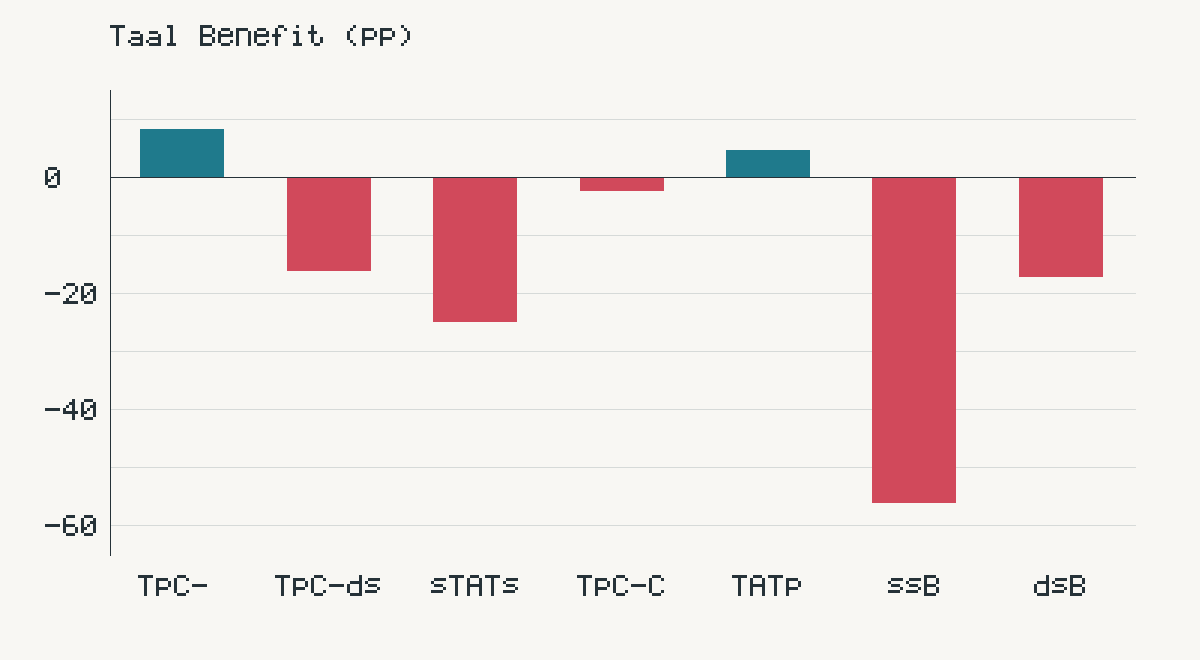
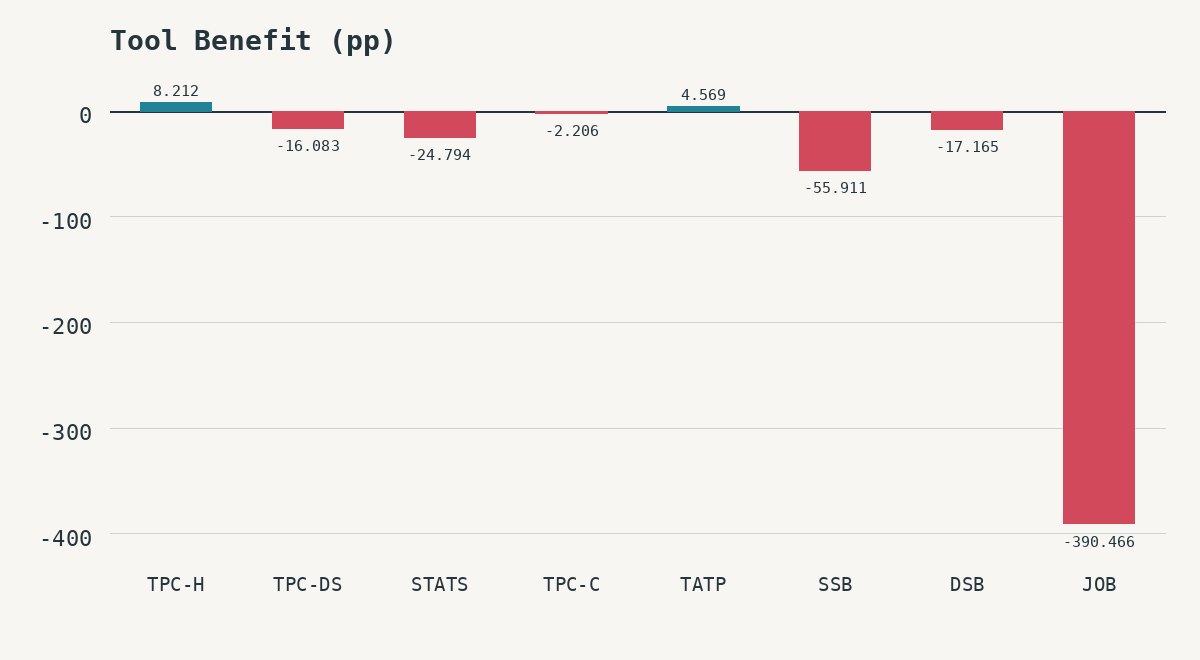
Update TPC-C provenance and add JOB analysis

diff --git a/combined/open_questions.md b/combined/open_questions.md
@@ -5,25 +5,27 @@
 | TPC-H | +8.212 | High | Complete aligned files and a clear B win on 19/22 queries; no unresolved provenance red flag identified. |
 | TPC-DS | -16.083 | High | Baseline and B were corrected together in `dcb29e6`, with aligned numeric timings; the negative result is not based on the known stale baseline. |
 | STATS | -24.794 | Medium | A/B/baseline were cleanly remeasured together, but the mean is strongly outlier-sensitive and cache state is not recorded. |
-| TPC-C | -2.206 | Low | Result files predate the current canonical inputs, and Q12 dominates the tiny 12-query workload despite the documented clean-run protocol. |
+| TPC-C | -2.206 | High | Commit `56179e1` contains baseline, Condition A, and Condition B results together; its TPC-C schema/workload inputs match the current files byte-for-byte, and the only later loader changes are connection configuration. Q12 still dominates the tiny 12-query workload, but the result's input provenance is confirmed. |
 | TATP | +4.569 | Medium | Measured inputs match the current canonical inputs and B improves 10/12 queries, but Q10/Q12 drive 44.5% of baseline time and cache state is unrecorded. |
 | SSB | -55.911 | High | Baseline/A/B were committed together, baseline values are plausible without a dominant outlier, and B regresses across 8/13 queries. |
 | DSB | -17.165 | Medium | Files were committed together and B regresses on 11/53 queries, but Q37 and Q48 materially dominate the arithmetic mean. |
+| JOB | -390.466 | Medium | Baseline/A/B were updated together in `93e004e`, and the accompanying summary documents a clean median-of-7 redo; however, query 28a dominates the baseline mean and the aggregate remains strongly outlier-sensitive. |
 
 # Open Questions and Data Caveats
 
-- JOB is not analyzable as a three-condition benchmark. `results/sylfhen/JOB/condition_b_results.csv` is missing on both `louis`/`main` and `origin/sylfhen-condition-a`. Baseline and Condition A have 113 aligned query IDs, but no B values exist.
-- The seven included triplets have populated, numeric timing columns and matching query ID sets. Some non-timing fields contain nulls or timeout/error text, so calculations use only the timing columns and do not treat metadata as a measurement.
+- JOB now has a complete, aligned three-condition dataset with 113 rows. The full-file scan found no row matching both `rows=0` and `cost=0.00..0.00`; 12 of 14 accepted indexes have finite numeric costs in matching proposed tool-log entries, with two exceptions (`cast_info(person_id, role_id, movie_id)` and `cast_info(movie_id, role_id)`) having no matching proposed entry. Its baseline, Condition A, and Condition B outputs were updated together in commit `93e004e`, whose accompanying summary documents a clean-database redo with one consistent session/cache state and median-of-7 measurements.
+- The eight included triplets have populated, numeric timing columns and matching query ID sets. Some non-timing fields contain nulls or timeout/error text, so calculations use only the timing columns and do not treat metadata as a measurement.
 - Timeout policy is not represented as a dedicated column in these CSVs. The repository contains timeout/error handling in runner code and result metadata, but the historical outputs do not provide one uniform, machine-readable timeout policy for every benchmark. Exact cross-benchmark timeout comparability therefore remains uncertain.
-- Git history provides useful chronology but not proof of identical database snapshots. TPC-DS baseline and Condition B were corrected together in commit `dcb29e6`; STATS baseline/A/B were remeasured together in `800e922`. Older TPC-H, TPC-C, TATP, SSB, and DSB files were committed in separate benchmark-specific runs, so snapshot equivalence is not independently established here.
+- Git history provides useful chronology but not proof of identical database snapshots. TPC-DS baseline and Condition B were corrected together in commit `dcb29e6`; STATS baseline/A/B were remeasured together in `800e922`. TPC-C is independently verified: commit `56179e1` contains all three result sets and its historical schema/workload inputs are byte-identical to the current files. Older TPC-H, TATP, SSB, and DSB files were committed in separate benchmark-specific runs, so snapshot equivalence is not independently established here.
 - The aggregate uses the arithmetic mean of per-query execution times. This is a judgment call because the result files do not consistently document whether timing values are single runs, medians, or repeated-run summaries. The STATS summary explicitly describes clean median-of-7 remeasurement; other benchmarks may use different protocols.
-- The chart contains seven bars, not eight, because assigning a Tool Benefit to JOB would require inventing missing Condition B data.
+- The chart contains eight bars now that JOB has approved, populated Condition B data.
 - SSB has no single dominant baseline outlier: its baseline range is 2766.376-6783.610 ms, and B regresses on 8/13 queries. Its negative aggregate B result is therefore not explained only by one suspiciously tiny or huge baseline value.
 - DSB is outlier-sensitive. Baseline Q37 is 359092.554 ms and Q48 is 69698.8 ms; excluding those two baseline-largest queries changes the baseline/A/B means from 9742.138/8438.581/10110.858 ms to 1716.510/377.039/665.051 ms. B still trails A, but the full-workload mean is materially shaped by these queries. B improves 42/53 queries and regresses 11/53, so the negative mean is driven by a smaller set of large regressions.
-- TPC-C is also outlier-sensitive: Q12 is 197.992 ms while the other 11 baseline queries are at most 0.252 ms. The summary documents standard one-warehouse scale and median-of-7 runs after warm-up on freshly reset databases, so the near-zero point-lookups are plausible for this small OLTP workload rather than the TPC-DS stale-baseline signature. However, the measured result files date to Aug 4, while the current canonical schema/workload files were added Aug 15; exact input identity cannot be proven from Git. Treat the -2.206 pp B-vs-A result as low-confidence and do not headline it as evidence that tool access hurt performance.
-- Across complete schemas, strict per-query counts (improved / regressed / tied versus baseline) are: TPC-H A 11/11/0, B 19/3/0; TPC-DS A 74/22/3, B 65/31/3; STATS A 57/89/0, B 52/94/0; TPC-C A 6/3/3, B 6/3/3; TATP A 9/2/1, B 10/2/0; SSB A 11/2/0, B 5/8/0; DSB A 49/4/0, B 42/11/0. These counts should accompany the arithmetic means because means can be dominated by one or two expensive queries.
+- TPC-C is outlier-sensitive: Q12 is 197.992 ms while the other 11 baseline queries are at most 0.252 ms. The summary documents standard one-warehouse scale and median-of-7 runs after warm-up on freshly reset databases, so the near-zero point-lookups are plausible for this small OLTP workload rather than the TPC-DS stale-baseline signature. Independent verification confirms that `56179e1` contains the baseline, Condition A, and Condition B results together; its `tpcc_schema.sql`, `tpcc_workload.csv`, `tpcc_workload.json`, and `tpcc_schema_workload.json` are byte-identical to the current files. The only post-commit loader changes are connection configuration (`PGUSER`, `PGPASSWORD`, `PGHOST`, and `PGPORT`), not data-generation logic. Treat the -2.206 pp B-vs-A result as high-confidence for input/result provenance, while still noting that Q12 makes the aggregate outlier-sensitive.
+- Across complete schemas, strict per-query counts (improved / regressed / tied versus baseline) are: TPC-H A 11/11/0, B 19/3/0; TPC-DS A 74/22/3, B 65/31/3; STATS A 57/89/0, B 52/94/0; TPC-C A 6/3/3, B 6/3/3; TATP A 9/2/1, B 10/2/0; SSB A 11/2/0, B 5/8/0; DSB A 49/4/0, B 42/11/0; JOB A 76/37/0, B 49/64/0. These counts should accompany the arithmetic means because means can be dominated by one or two expensive queries.
 - TATP provenance confidence: **high for result/input identity and file-set chronology, medium for exact runtime cache-state equivalence**. Baseline, A, and B were committed together in `b51e97b` on Aug 10, using the original `tatp_schema.sql` and `tatp_workload.csv`. The later canonical `schema.sql` and `workload.csv` added in `030da4b` are byte-identical to those original inputs. The TATP summary documents median-of-7 `EXPLAIN ANALYZE` runs after one warm-up on a freshly reset PK/FK-only database before each condition. No TATP-specific cache warning or JOB-style stale-baseline caveat was found, but Git and the CSVs cannot prove OS/page-cache state; classify the positive aggregate as **medium-confidence**, rather than treating cache equivalence as proven.
 - TATP's positive mean is partly outlier-sensitive but not dependent on a single anomalous result. Baseline mean/median are 17.483/4.608 ms; Q12, Q10, and Q11 are the largest signal queries at 47.117, 46.281, and 44.121 ms. The two largest baseline queries (Q12 and Q10) account for 44.5% of baseline total time. Removing them changes baseline/A/B means from 17.483/11.689/10.890 ms to 11.639/4.862/4.568 ms, reducing Tool Benefit from 4.569 pp to approximately 2.54 pp while preserving its positive direction. B improves 10/12 queries, regresses 2/12, and ties none; the two regressions are low-cost queries, so the positive result is supported by both the count and the signal-bearing queries, with reduced effect size after outlier removal.
 - STATS provenance confidence: **high for same-session/file-set chronology, medium for exact runtime cache-state equivalence**. `baseline_results.csv`, `condition_a_results.csv`, and `condition_b_results.csv` were all replaced together in commit `800e922` on Aug 21, whose message identifies a clean, median-of-7 remeasurement. The STATS schema and workload were canonicalized earlier in `030da4b` on Aug 15, so the result files postdate the current inputs. This is materially stronger provenance than TPC-C's result files, which predate its current canonical schema/workload.
-- No STATS-specific evidence of the JOB warning was found. JOB has an explicit baseline-validity caveat and a separate clean-database correction in its history; STATS's latest commit explicitly describes a clean remeasurement and replaces baseline/A/B together. However, Git history cannot prove OS/page-cache state, and the CSVs do not record cache warm/cold status or a machine-readable timeout policy. Do not call STATS cache equivalence proven; classify the aggregate as **medium-confidence**, not a confirmed stale-baseline artifact.
+- No STATS-specific evidence of the JOB warning was found. JOB's latest result commit explicitly replaces baseline/A/B together and its summary documents a clean remeasurement, while STATS's latest commit explicitly describes a clean remeasurement and replaces baseline/A/B together. However, Git history cannot prove OS/page-cache state, and the CSVs do not record cache warm/cold status or a machine-readable timeout policy. Do not call STATS or JOB cache equivalence proven; classify both aggregates as **medium-confidence**, not confirmed stale-baseline artifacts.
 - STATS is strongly outlier-sensitive. Baseline mean/median are 27176.417/224.516 ms; s120 is 1207053.123 ms, s122 is 1130644.914 ms, and s58 is 883909.657 ms. Removing only the two largest baseline queries changes baseline/A/B means from 27176.417/20428.836/27166.821 ms to 11319.853/11509.764/10994.986 ms. The full mean says B is 24.794 percentage points worse than A, but B improves 52/146 queries and regresses 94/146; the result is therefore driven by a small number of high-cost regressions rather than a majority of queries. The median tells a different story: B's 217.856 ms is below A's 256.728 ms and close to baseline's 224.516 ms.
+- JOB is strongly outlier-sensitive. Baseline mean/median are 9993.383/1600.974 ms, with query 28a at 694343.972 ms. Removing 28a changes baseline/A/B means from 9993.383/2729.827/41750.591 ms to 3883.110/2749.412/41864.309 ms; A's improvement falls from 72.684% to 29.196%, while B remains negative at -978.113%. The result is therefore medium-confidence: the clean redo and same-commit file set reduce stale-baseline risk, but the aggregate is dominated by a small number of expensive queries.

diff --git a/combined/results_section.md b/combined/results_section.md
@@ -1,11 +1,13 @@
 # Results
 
-Seven benchmarks had complete, aligned baseline, Condition A, and Condition B timing files. JOB was excluded because its Condition B data does not exist. The high-confidence findings that are safe to lead with are TPC-H, TPC-DS, and SSB: their file provenance and timing checks do not show the known stale-baseline signature. TPC-H is the clearest positive case: Condition B improved over baseline by 96.724%, versus 88.512% for Condition A, for an 8.212 percentage-point benefit. SSB is the clearest negative case: B regressed on 8/13 queries and produced a -55.911 percentage-point benefit relative to A.
+Eight benchmarks now have complete, aligned baseline, Condition A, and Condition B timing files. The high-confidence findings that are safe to lead with are TPC-H, TPC-DS, and SSB: their file provenance and timing checks do not show the known stale-baseline signature. TPC-H is the clearest positive case: Condition B improved over baseline by 96.724%, versus 88.512% for Condition A, for an 8.212 percentage-point benefit. SSB is the clearest negative case: B regressed on 8/13 queries and produced a -55.911 percentage-point benefit relative to A. JOB adds a strongly negative, medium-confidence result: B improved 49/113 queries but its aggregate was -317.782% versus baseline, compared with A's 72.684% improvement.
 
-Condition A was stronger for TPC-DS, STATS, TPC-C, SSB, and DSB. TPC-DS is a high-confidence negative result because its baseline and Condition B files were corrected together; B improved 7.146% versus A's 23.229%. The largest gap was SSB, where B was 19.136% slower than baseline and 55.911 percentage points worse than A. STATS, DSB, and especially TPC-C should be presented with hedging: STATS is outlier-sensitive, DSB's mean is strongly influenced by Q37 and Q48, and TPC-C has an unresolved input-provenance gap. TPC-C's -2.206 percentage-point result is low-confidence and should not be used as headline evidence that tool access hurt performance.
+Condition A was stronger for TPC-DS, STATS, TPC-C, SSB, DSB, and JOB. TPC-DS is a high-confidence negative result because its baseline and Condition B files were corrected together; B improved 7.146% versus A's 23.229%. The largest gap was SSB, where B was 19.136% slower than baseline and 55.911 percentage points worse than A. STATS and DSB should still be presented with hedging because STATS is outlier-sensitive and DSB's mean is strongly influenced by Q37 and Q48. TPC-C's -2.206 percentage-point result has high confidence for input/result provenance, while JOB's -390.466 percentage-point Tool Benefit is medium-confidence because its clean redo and same-commit file set reduce stale-baseline risk but its mean is dominated by query 28a.
 
 At query level, the clearest B wins were TPC-H Q11, Q7, and Q10, where B recovered from large A regressions and improved 76.6%, 38.4%, and 59.3%, respectively. TATP Q8 also favored B (46.7% improvement versus 13.3% for A), but TATP's overall +4.569 pp result is medium-confidence because Q10/Q12 account for 44.5% of baseline time and cache state is unrecorded. Conversely, SSB Q4.3 and Q2.1 and DSB Q44 show substantial B regressions after A improvements. Some cases were nearly ties, such as SSB Q2.3 and Q1.3.
 
-TPC-C requires especially cautious interpretation. Q12 accounts for nearly all of its 16.559 ms baseline mean; the other 11 queries are at most 0.252 ms. Its summary reports standard one-warehouse scale and clean median-of-7 measurements, making the small point-lookup timings plausible, but the current canonical schema/workload files postdate the Aug 4 results. The -2.206 percentage-point B benefit relative to A should therefore not be promoted as a headline finding until input identity is confirmed.
+TPC-C remains outlier-sensitive but no longer has an input-provenance gap. Q12 accounts for nearly all of its 16.559 ms baseline mean; the other 11 queries are at most 0.252 ms. Its summary reports standard one-warehouse scale and clean median-of-7 measurements, making the small point-lookup timings plausible. Independent Git verification confirms that `56179e1` contains the baseline, Condition A, and Condition B outputs together, that its TPC-C schema/workload files are byte-identical to the current inputs, and that subsequent loader changes only configure the database connection. The -2.206 percentage-point B benefit relative to A can therefore be reported as a high-confidence provenance result, with the Q12 outlier noted as an interpretation caveat.
 
-These comparisons should be read with the data caveats in `open_questions.md`: JOB is excluded because Condition B is missing, historical timeout policy is not uniformly encoded, and Git chronology cannot by itself prove identical database snapshots for every older benchmark.
+JOB's Condition B result is complete: 113 rows, 14 finalized indexes, 82 tool calls, and no missing execution times. The clean redo summary reports a genuinely reset database, a consistent session/cache state, and median-of-7 measurements. Baseline/A/B were updated together in commit `93e004e`; the full-file scan found no `rows=0` plus `cost=0.00..0.00` empty-result pattern. A improved 76/113 queries and B improved 49/113, but B's mean is dominated by query 28a (694343.972 ms baseline). Removing that query leaves B negative at -978.113%, so the direction is not explained solely by that outlier, although the aggregate magnitude is highly sensitive to it.
+
+These comparisons should be read with the data caveats in `open_questions.md`: JOB is included but medium-confidence because its aggregate is outlier-sensitive, historical timeout policy is not uniformly encoded, and Git chronology cannot by itself prove identical database snapshots for every benchmark.

diff --git a/combined/combined_results_table.md b/combined/combined_results_table.md
@@ -1,6 +1,6 @@
 # Combined Results
 
-Means are computed over valid timing values in each benchmark's aligned query set. Improvement is `(baseline - condition) / baseline * 100`; Tool Benefit is Condition B improvement minus Condition A improvement, in percentage points. JOB is excluded because its Condition B result file is missing.
+Means are computed over valid timing values in each benchmark's aligned query set. Improvement is `(baseline - condition) / baseline * 100`; Tool Benefit is Condition B improvement minus Condition A improvement, in percentage points.
 
 | Benchmark | Baseline mean (ms) | Condition A mean / improvement | A improved / regressed / tied | Condition B mean / improvement | B improved / regressed / tied | Tool Benefit |
 | --- | ---: | ---: | ---: | ---: | ---: | ---: |
@@ -11,6 +11,6 @@ Means are computed over valid timing values in each benchmark's aligned query se
 | TATP | 17.483 | 11.689 / 33.142% | 9 / 2 / 1 | 10.890 / 37.711% | 10 / 2 / 0 | 4.569 pp |
 | SSB | 3751.628 | 2371.953 / 36.775% | 11 / 2 / 0 | 4469.543 / -19.136% | 5 / 8 / 0 | -55.911 pp |
 | DSB | 9742.138 | 8438.581 / 13.381% | 49 / 4 / 0 | 10110.858 / -3.785% | 42 / 11 / 0 | -17.165 pp |
-| JOB | N/A | N/A | N/A | N/A | N/A | N/A |
+| JOB | 9993.383 | 2729.827 / 72.684% | 76 / 37 / 0 | 41750.591 / -317.782% | 49 / 64 / 0 | -390.466 pp |
 
-JOB is shown for completeness but is not included in the numeric analysis or chart.
+JOB is included in the numeric analysis and chart. Its aggregate is strongly outlier-sensitive: query 28a dominates the baseline mean, and the negative Condition B result remains after removing the largest baseline outlier.
